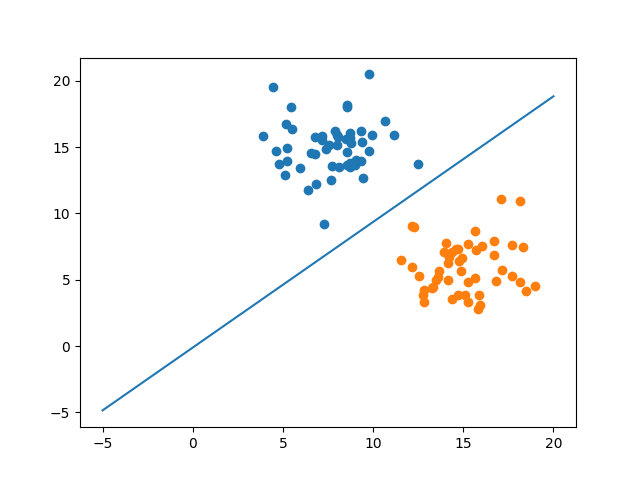
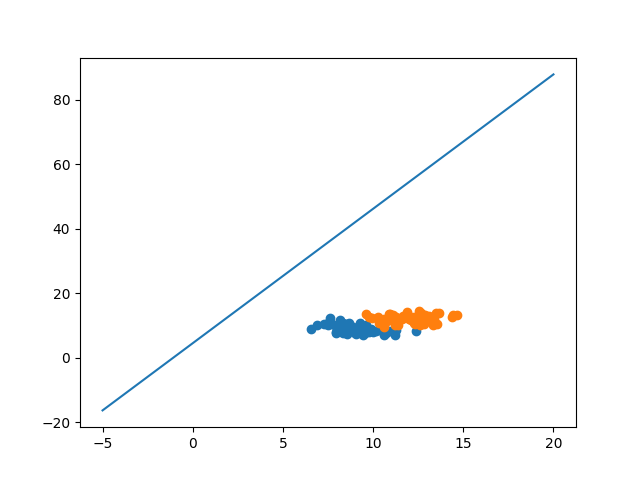
Faulty SoftSVM Implementation

diff --git a/Soft_SVM.py b/Soft_SVM.py
@@ -5,8 +5,103 @@ class SoftSVM:
     def __init__(self, learning_rate=0.01, epochs=1000):
         # Constructor
         print("CONSTRUCTING")
-        
         self.w = None
         self.b = 0
         self.learning_rate = learning_rate
         self.epochs = epochs
+
+    def edit():
+        # Edits hyperparameters
+        
+        pass
+    
+    def train(self, X, y):
+        # Calibrates model on input data
+        # X is an NxM matrix, where N is the number of samples, and M is the number of features
+        # y is an N dimensional array of labels for the samples in X
+        # Returns nothing
+
+        # Makes sure inputs are numpy compatible
+        X = np.array(X)
+        y = np.array(y)
+        
+        
+        # Sets random weights ranging from -1 to +1
+        num_samples, num_features = X.shape
+        self.w = np.random.random_sample(num_features + 1)
+        
+        self.w = self.w * 2 - 1
+
+        # Find hyperplane using stochastic gradient descent with hinge loss
+        for _ in range(self.epochs):
+            for idx, V in enumerate(X):
+                # Use numpy.insert() to add the value at the front (position 0)
+                V = np.insert(V, 0, [1])
+                # 1 x1 x2
+                #print(V)
+
+                slack = np.dot(self.w, V) - y[idx]
+
+                if abs(slack) >= 1:
+                    slack = 0
+
+
+
+                if y[idx] * (np.dot(self.w,np.transpose(V))) + slack < 1:
+                    
+                    
+                    loss_gradient = np.multiply(y[idx],np.transpose(V)) + np.transpose(V)
+
+                    
+
+                    self.w = self.w + np.multiply(self.learning_rate, loss_gradient)
+                    
+                    #                     y[1] * V[(1 + p) x 1]
+
+
+                    # Soft SVM Modification
+
+                    # slack = self.w * V - y[idx]
+
+                    # hinge_loss = 1 - y[idx] * self.w * V 
+
+                    # hinge_loss = 1 - y[idx] * self.w * V  + self.w * V - y[idx] 
+
+
+
+
+
+
+
+
+                
+                    
+
+        self.b = self.w[0]
+
+    def accuracy(self, y_true, y_pred):
+        y_true = np.array(y_true)
+        y_pred = np.array(y_pred)
+
+        total = len(y_true)
+
+        print(np.transpose(y_pred))
+        print(y_true)
+
+        accuracy = np.sum(y_true == y_pred) / total
+        return accuracy
+
+    def predict(self, X):
+        # Include bias values somehow
+        predictions = []
+        for i in X:
+            I = np.insert(i, 0, [1])
+            scores = np.dot(I, np.transpose(self.w))
+            predictions.append(np.sign(scores))
+
+        return predictions
+
+    def SVM_train_test_split(self, X, y, test_size, random_state):
+        
+
+        return 0

diff --git a/Hard_SVM_Testing.py b/Hard_SVM_Testing.py
@@ -1,0 +1,108 @@
+# Imports
+import SVM
+import numpy as np
+import pandas as pd
+from sklearn import datasets
+from matplotlib import pyplot as plt
+
+from sklearn.model_selection import train_test_split
+
+
+##################
+n_pts = 50
+np.random.seed()
+Xa = np.array([np.random.normal(9, 1.25, n_pts),
+              np.random.normal(9, 1.25, n_pts)]).T
+Xb = np.array([np.random.normal(12, 1.25, n_pts),
+              np.random.normal(12, 1.25, n_pts)]).T
+
+X = np.vstack((Xa, Xb))
+negative_ones = np.full((1, n_pts), -1)
+#print(y)
+positive_ones = np.full((1, n_pts), 1)
+Y = np.append(negative_ones, positive_ones)
+ 
+
+#Class 1 X and Y values
+
+Class1 = [X[:n_pts,0], X[:n_pts,1]]
+plt.scatter(Class1[0], Class1[1])
+#plt.scatter(X[:n_pts,0], X[:n_pts,1])
+
+#CLass 2 X and Y values
+
+Class2 = [X[n_pts:,0], X[n_pts:,1]]
+plt.scatter(Class2[0], Class2[1])
+
+X_train, X_test, Y_train, Y_test = train_test_split(X, Y, test_size=0.2, random_state=123, shuffle = True )
+
+
+print("SDSDSDDS")
+
+# plt.scatter(X[n_pts:,0], X[n_pts:,1])
+# plt.show()
+
+
+#Class1[0] Class2[0]
+svm = SVM.SVM(learning_rate=0.01, epochs=6000)
+print("REACHED THIS FAR1")
+svm.train(X_train,Y_train)
+print("REACHED THIS FAR2")
+y_pred = svm.predict(X_test)
+print(f"accuracy = {svm.accuracy(Y_test, y_pred)}")
+
+
+
+print(svm.w)
+
+
+
+w1 = svm.w[1]
+w2 = svm.w[2]
+
+b = svm.w[0]
+
+print("REACHED THIS FAR3")
+print(f"W1: {w1}")
+print(f"W2: {w2}")
+print(f"B: {b}")
+
+
+######
+y_start = (-1  * w1/w2) * (-5) - b/w2
+y_end = (-1 * w1/w2) * (20) - b/w2
+
+
+########################
+plt.plot([-5, 20], [y_start, y_end])
+
+#plt.Axes.plot([-5, 20], [y_start, y_end], linestyle='-', color='blue', label='My Line')
+
+plt.savefig("plot.png")
+
+# # Instatiate SVM object
+# SVM_instance = SVM.SVM(learning_rate=0.05, epochs=2000)
+
+# #########################################################
+
+# #fake data set
+# X, y = datasets.make_blobs(
+#     n_samples=2000, n_features=2, centers=2, cluster_std=5.0, random_state=100
+# )
+# y = np.where(y == 0, -1, 1)
+
+# X_train, X_test, y_train, y_test = train_test_split(
+#     X, y, test_size=0.5, random_state=123
+# )
+
+
+
+# SVM_instance.train(X_train, y_train)
+
+# predictions = SVM_instance.predict(X_test)
+
+
+
+# #matplotlib.
+
+# print("SVM classification accuracy", SVM_instance.accuracy(y_test, predictions))

diff --git a/soft_SVM_Testing.py b/soft_SVM_Testing.py
@@ -1,5 +1,6 @@
 # Imports
 import SVM
+import Soft_SVM
 import numpy as np
 import pandas as pd
 from sklearn import datasets
@@ -11,10 +12,10 @@ from sklearn.model_selection import train_test_split
 ##################
 n_pts = 50
 np.random.seed()
-Xa = np.array([np.random.normal(8, 1.75, n_pts),
-              np.random.normal(15, 1.75, n_pts)]).T
-Xb = np.array([np.random.normal(15, 1.75, n_pts),
-              np.random.normal(6, 1.75, n_pts)]).T
+Xa = np.array([np.random.normal(9, 1.25, n_pts),
+              np.random.normal(9, 1.25, n_pts)]).T
+Xb = np.array([np.random.normal(12, 1.25, n_pts),
+              np.random.normal(12, 1.25, n_pts)]).T
 
 X = np.vstack((Xa, Xb))
 negative_ones = np.full((1, n_pts), -1)
@@ -44,23 +45,22 @@ print("SDSDSDDS")
 
 
 #Class1[0] Class2[0]
-svm = SVM.SVM(learning_rate=0.01, epochs=6000)
+soft_svm = Soft_SVM.SoftSVM(learning_rate=0.01, epochs=10000)
 print("REACHED THIS FAR1")
-svm.train(X_train,Y_train)
+soft_svm.train(X_train,Y_train)
 print("REACHED THIS FAR2")
-y_pred = svm.predict(X_test)
-print(f"accuracy = {svm.accuracy(Y_test, y_pred)}")
+y_pred = soft_svm.predict(X_test)
+print(f"accuracy = {soft_svm.accuracy(Y_test, y_pred)}")
 
 
 
-print(svm.w)
+print(soft_svm.w)
 
 
+b = soft_svm.w[0]
+w1 = soft_svm.w[1]
+w2 = soft_svm.w[2]
 
-w1 = svm.w[1]
-w2 = svm.w[2]
-
-b = svm.w[0]
 
 print("REACHED THIS FAR3")
 print(f"W1: {w1}")
@@ -68,7 +68,7 @@ print(f"W2: {w2}")
 print(f"B: {b}")
 
 
-######
+# Plot svm line
 y_start = (-1  * w1/w2) * (-5) - b/w2
 y_end = (-1 * w1/w2) * (20) - b/w2
 
@@ -79,30 +79,3 @@ plt.plot([-5, 20], [y_start, y_end])
 #plt.Axes.plot([-5, 20], [y_start, y_end], linestyle='-', color='blue', label='My Line')
 
 plt.savefig("plot.png")
-
-# # Instatiate SVM object
-# SVM_instance = SVM.SVM(learning_rate=0.05, epochs=2000)
-
-# #########################################################
-
-# #fake data set
-# X, y = datasets.make_blobs(
-#     n_samples=2000, n_features=2, centers=2, cluster_std=5.0, random_state=100
-# )
-# y = np.where(y == 0, -1, 1)
-
-# X_train, X_test, y_train, y_test = train_test_split(
-#     X, y, test_size=0.5, random_state=123
-# )
-
-
-
-# SVM_instance.train(X_train, y_train)
-
-# predictions = SVM_instance.predict(X_test)
-
-
-
-# #matplotlib.
-
-# print("SVM classification accuracy", SVM_instance.accuracy(y_test, predictions))

diff --git a/SVM.py b/SVM.py
@@ -43,24 +43,10 @@ class SVM:
                     #                     y[1] * V[(1 + p) x 1]
                     hinge_loss_gradient = y[idx] * V
 
-                    #self.w = self.w - self.learning_rate * (hinge_loss_gradient)
                     self.w = self.w + np.multiply(self.learning_rate, hinge_loss_gradient)
-                    #self.b = self.b + self.learning_rate * y[idx]
 
 
         self.b = self.w[0]
-
-         # Magic numberr working for b           
-        #self.b = 23*(-1 * self.w[1])
-
-        #[theta1 theta2] [x y]
-        #theta1*x + theta2*y = 0
-
-        #[theta0 theta1 theta2] [1 x y]
-        
-        #theta0 + theta1 * x + theta2 * y = 0
-        #y = -(theta1/theta2) * x - theta0/theta2
-
 
     def accuracy(self, y_true, y_pred):
         y_true = np.array(y_true)
@@ -86,8 +72,5 @@ class SVM:
 
     def SVM_train_test_split(self, X, y, test_size, random_state):
         
-        # if random_state is not None:
-        #     np.random.seed(random_state)
 
-        # X.shape[0]
         return 0
